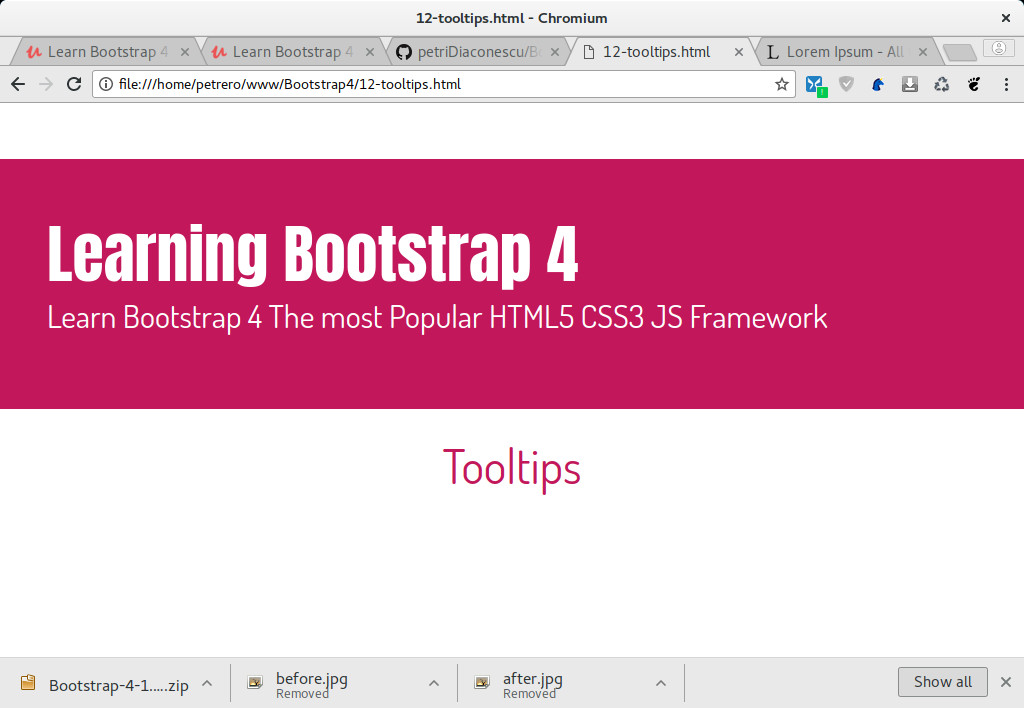
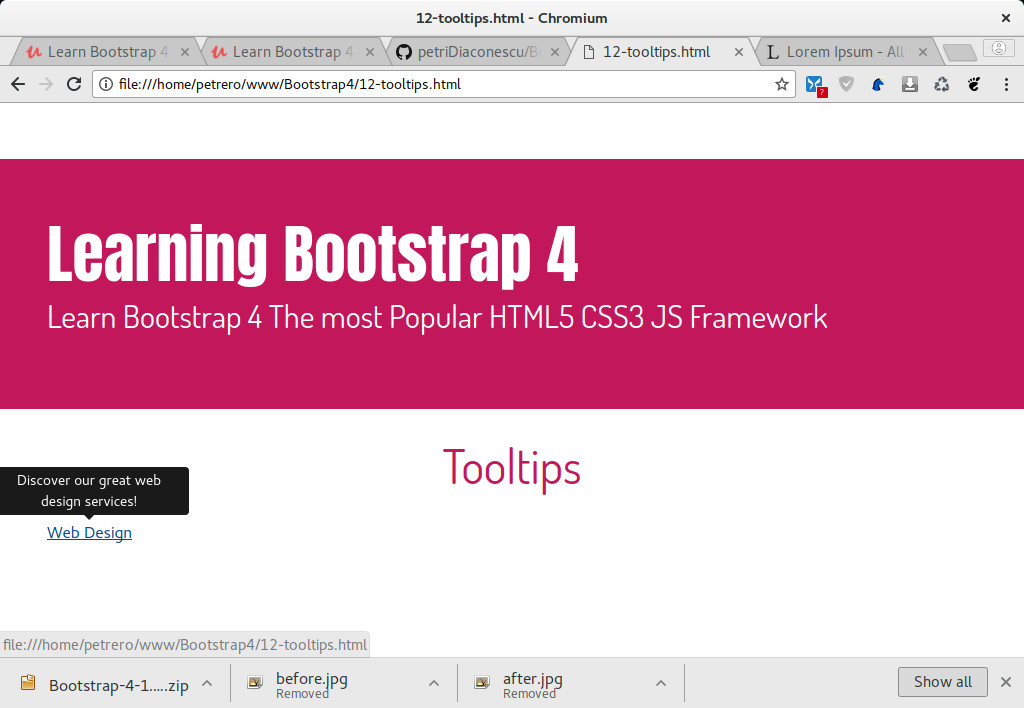
Place the tooltip to the left

Changed region(s): [[0.0, 0.6525, 0.1875, 0.7768], [0.0, 0.8701, 0.375, 0.9322], [0.7812, 0.1243, 0.8125, 0.1554]]

diff --git a/12-tooltips.html b/12-tooltips.html
@@ -24,7 +24,7 @@
     
     <main class="container">
       <div class="row">
-        <div class="col-12">
+        <div class="col-12 offset-1">
           <a href="" data-toggle="tooltip" 
             title="Discover our great web design services!">
               Web Design
@@ -45,7 +45,7 @@
     <script type="text/javascript">
       $(document).ready(function(){
         $('[data-toggle="tooltip"]').tooltip({
-          placement: 'top',
+          placement: 'left',
           trigger: 'hover'
         });
       });
